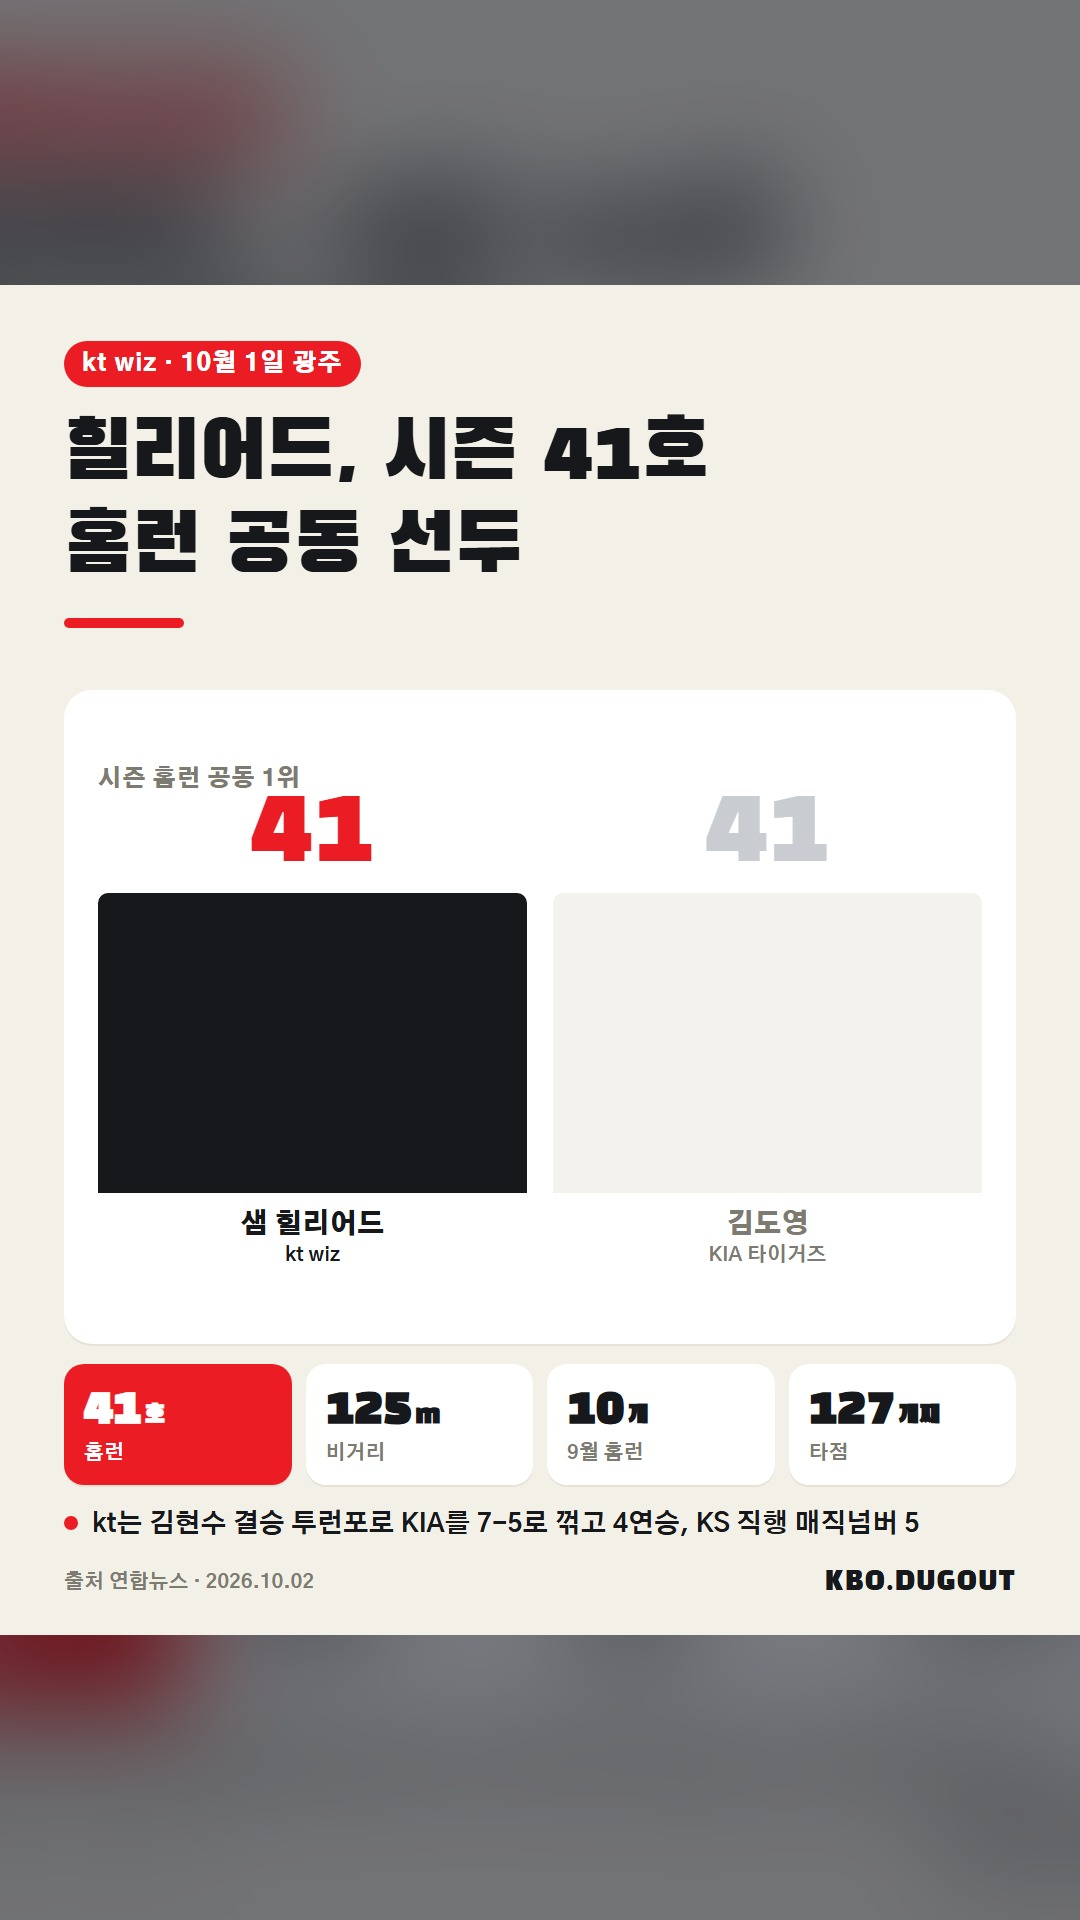
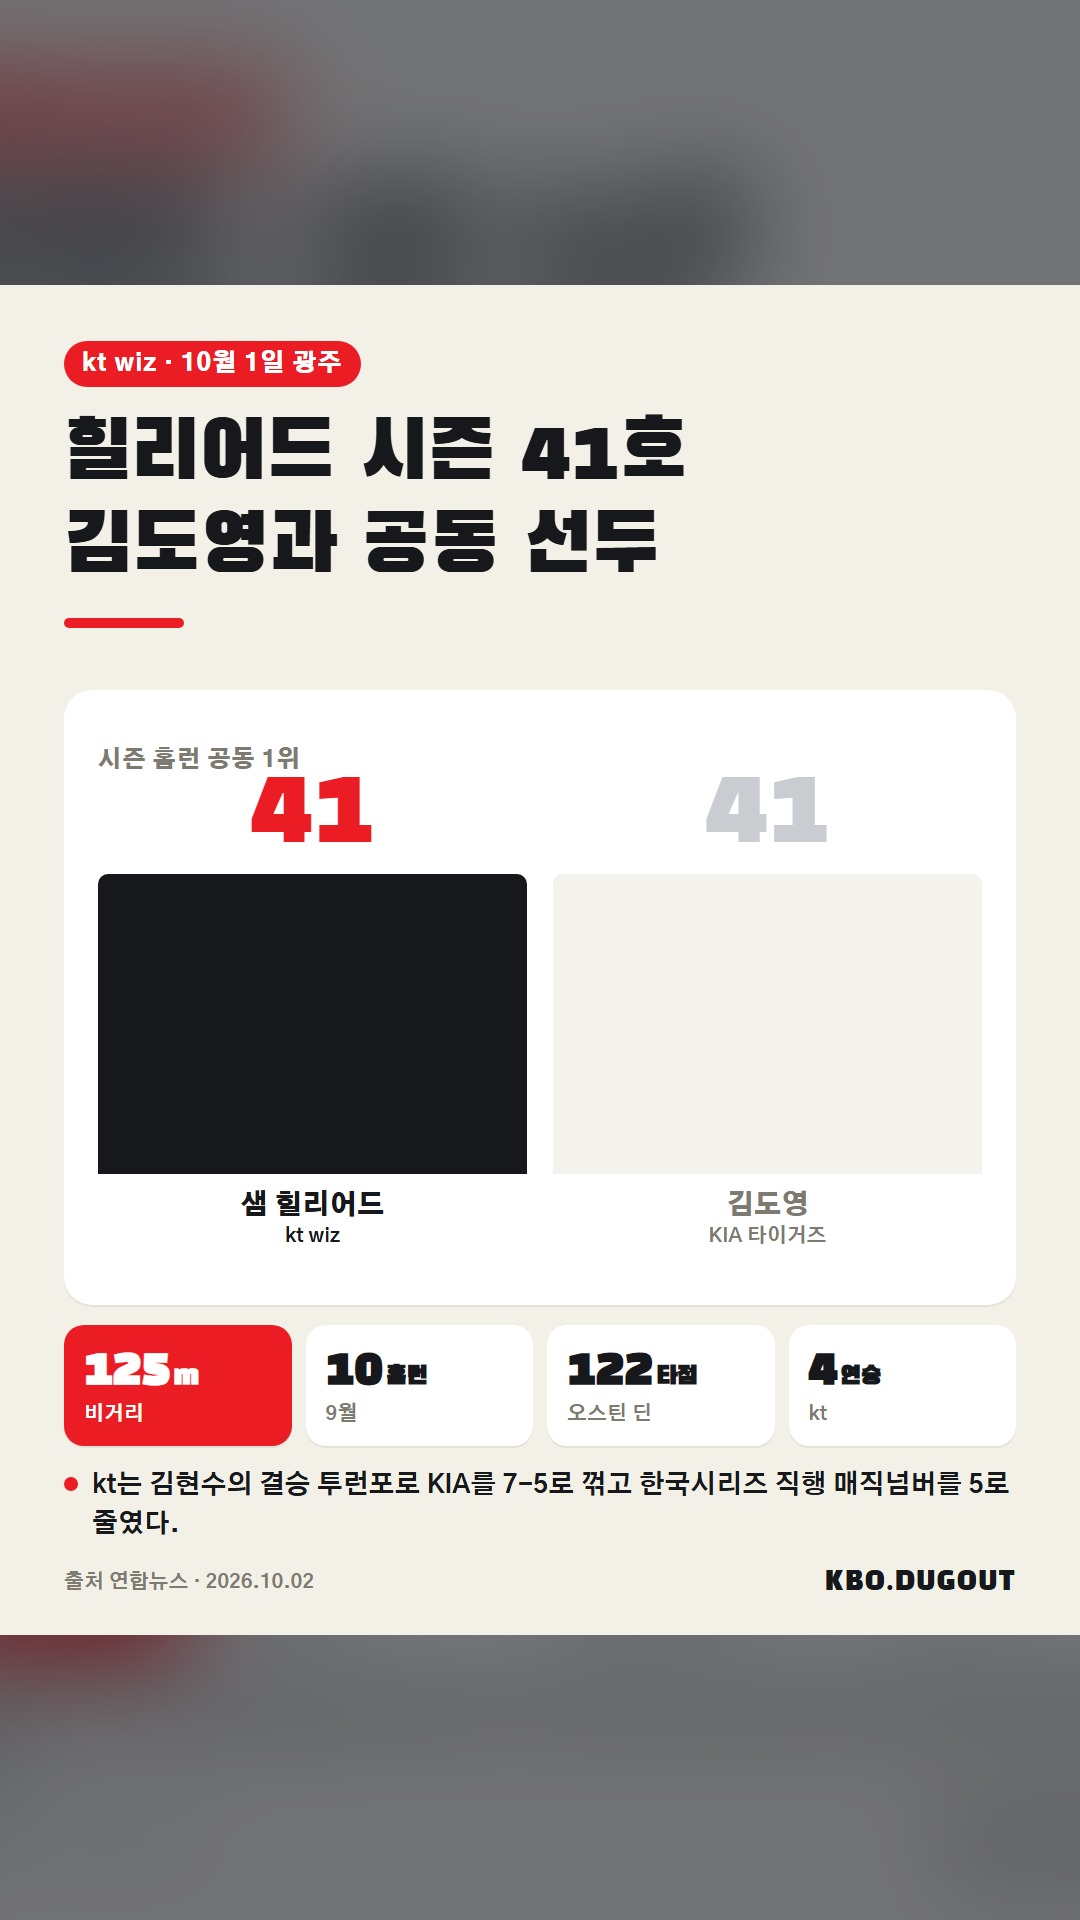
chore: publish review batch 800fe6b7d65d

diff --git a/review/2026-10-02-800fe6b7d65d.html b/review/2026-10-02-800fe6b7d65d.html
@@ -1,0 +1,29 @@
+<!doctype html>
+<html lang="ko">
+<head>
+  <meta charset="utf-8">
+  <meta name="viewport" content="width=device-width, initial-scale=1">
+  <title>콘텐츠 검토</title>
+  <style>
+    * { box-sizing: border-box; }
+    body { margin: 0; background: #f3efe4; color: #182126; font-family: sans-serif; }
+    main { width: min(100%, 720px); margin: auto; padding: 24px 16px 48px; }
+    article { margin: 0 0 32px; padding-bottom: 32px; border-bottom: 1px solid #aaa397; }
+    .carousel { display: grid; gap: 12px; }
+    img { display: block; width: 100%; max-width: 100%; height: auto; }
+    .meta { color: #5f625e; font-size: .85rem; }
+    .body { white-space: pre-wrap; line-height: 1.65; }
+    .qa { padding: 12px; background: #e5ded0; }
+  </style>
+</head>
+<body><main><h1>콘텐츠 검토</h1><article>
+  <p class="meta">Draft #96</p>
+  <div class="carousel">
+    <img src="../cards/draft-96-01.png" alt="Draft #96 카드 1">
+  </div>
+  <p class="body">힐리어드가 시즌 41호 솔로포로 김도영과 홈런 공동 선두에 올랐어요. 타점은 127개로 오스틴 딘(122타점)을 제치고 단독 1위를 지키고 있습니다. 남은 경기, 홈런왕은 누가 가져갈까요?
+
+#KBO #프로야구 #야구 #샘힐리어드 #KT위즈</p>
+  <p class="qa"><strong>QA</strong> 없음</p>
+</article></main></body>
+</html>
